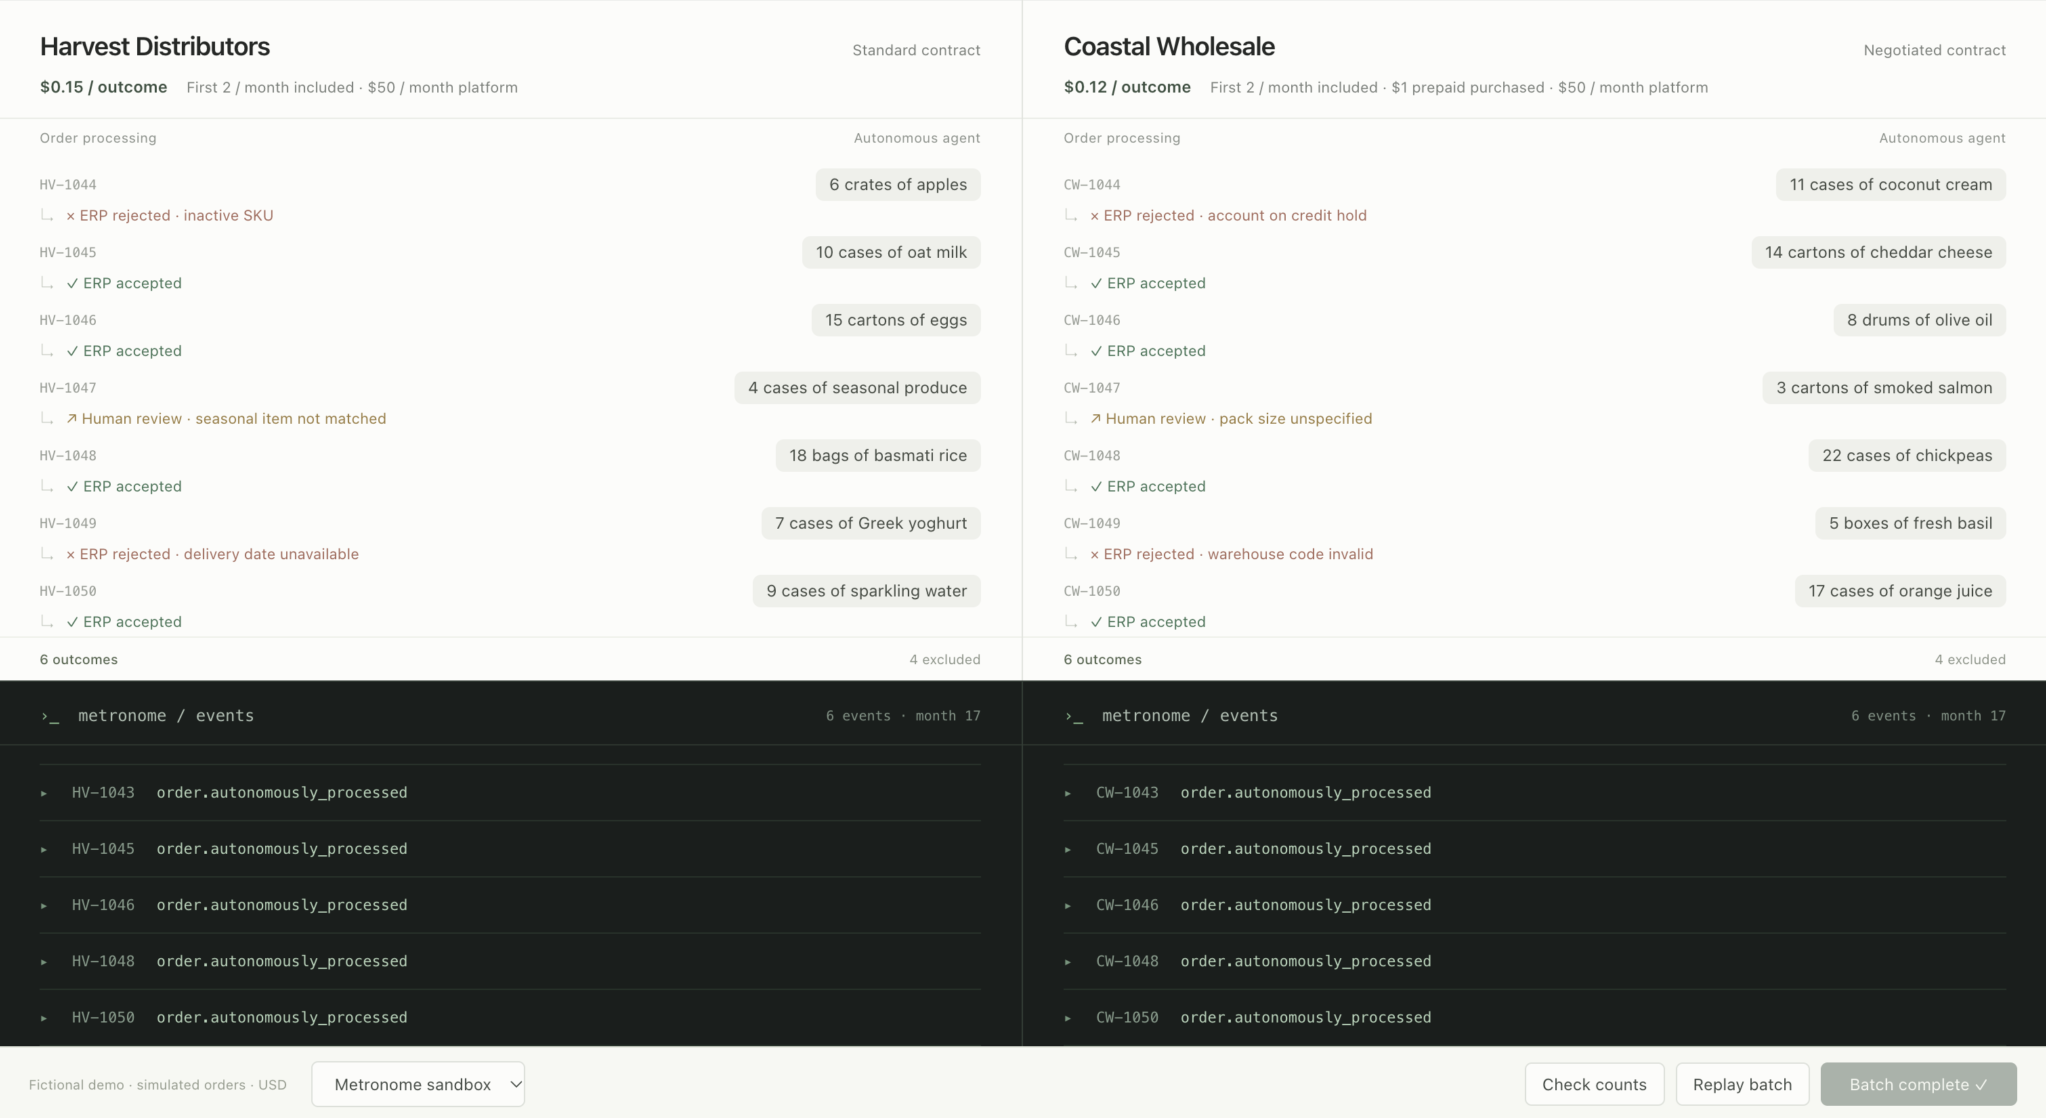
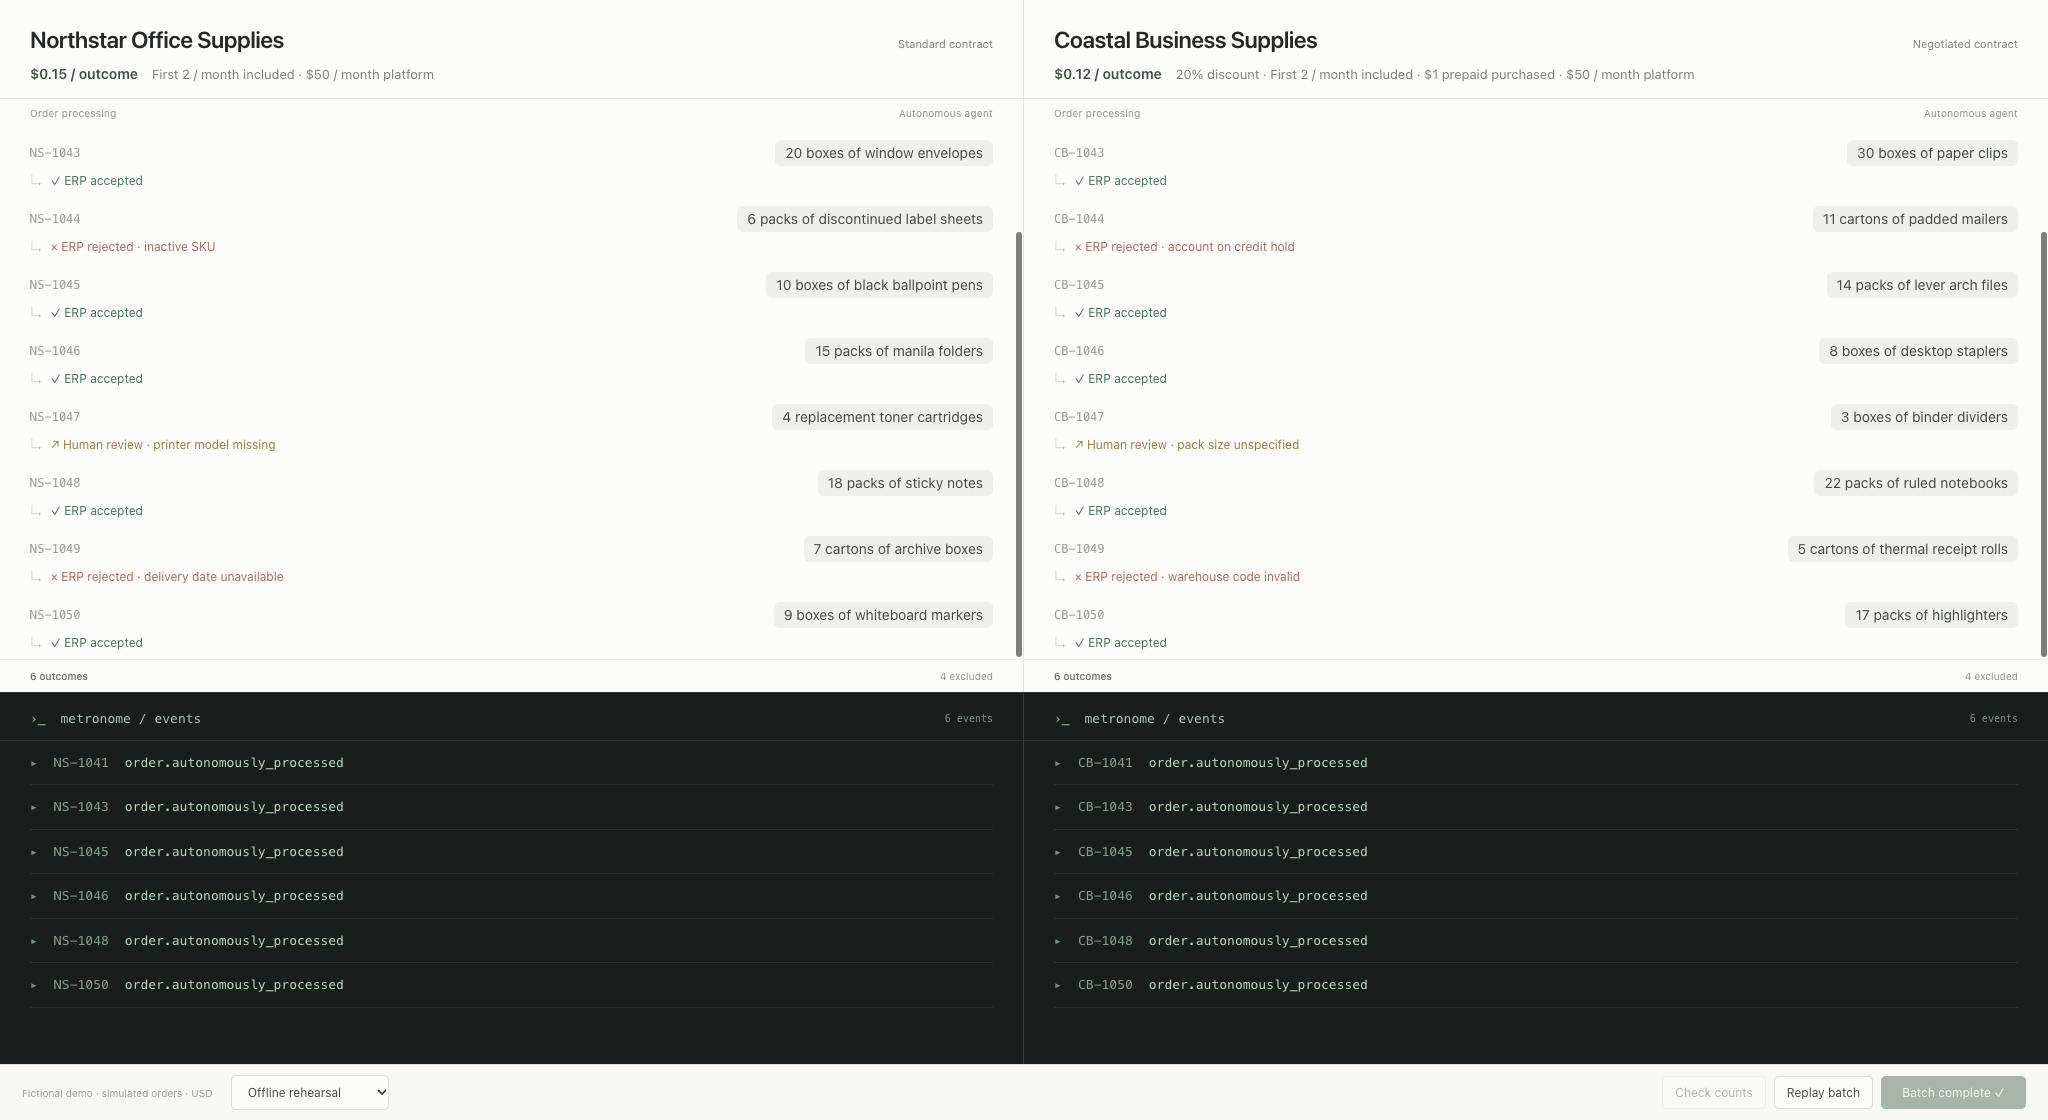
Reframe demo as Dunder Mifflin office-supply order processing

diff --git a/public/index.html b/public/index.html
@@ -3,7 +3,7 @@
 <head>
   <meta charset="utf-8">
   <meta name="viewport" content="width=device-width, initial-scale=1">
-  <title>OrderAI · Orders to outcomes</title>
+  <title>Dunder Mifflin Order Desk · Orders to outcomes</title>
   <link rel="stylesheet" href="/style.css">
   <script src="/app.js" defer></script>
 </head>

diff --git a/README.md b/README.md
@@ -1,8 +1,8 @@
-# OrderAI: the same outcomes, different bills
+# Dunder Mifflin Order Desk: the same outcomes, different bills
 
 Outcome-based billing charges for an agreed result, such as a successfully processed order, rather than each attempt or API call. For AI services that complete work autonomously, this connects the bill to work the customer actually receives. It depends on a clear, measurable definition of success.
 
-This demo uses **OrderAI**, a fictional AI order-processing platform, and two fictional customers: **Harvest Distributors** and **Coastal Wholesale**. Both receive the same number of successful outcomes, but their contracts produce different charges. It shows how outcome metering works alongside negotiated rates, included allowances and prepaid balances.
+In this fictional demo, **Dunder Mifflin Order Desk** sells an AI order-processing service to office-supply distributors: **Northstar Office Supplies** and **Coastal Business Supplies**. It interprets incoming orders, matches paper, toner and stationery to a catalogue, and submits them to the distributor’s ERP. Both receive the same number of successful outcomes, but their contracts produce different charges. It shows how outcome metering works alongside negotiated rates, included allowances and prepaid balances.
 
 ## Demo flow
 
@@ -21,12 +21,12 @@ The application defines success and sends qualifying events. Metronome counts an
 Open **https://app.metronome.com/** and walk through the prepared setup:
 
 1. **Billable metric:** COUNT of `order.autonomously_processed`.
-2. **Harvest → contract → rate card:** platform subscription, included allowance and outcome tiers.
+2. **Northstar → contract → rate card:** platform subscription, included allowance and outcome tiers.
 3. **Coastal → contract:** outcome pricing override, then the prepaid commitment.
 
 All demo prices are **USD**:
 
-| Term | Harvest | Coastal |
+| Term | Northstar | Coastal |
 | --- | --- | --- |
 | Monthly platform, in arrears | $50 | $50 |
 | Included outcomes per month | First 2 | First 2 |
@@ -36,6 +36,8 @@ All demo prices are **USD**:
 Show Coastal's **20% discount through 28 October 2027**, then the commitment's **eligible product, access dates and remaining balance**. Earlier tests may already have consumed the credit.
 
 The event doesn't contain a price. The customer's contract determines the charge.
+
+The Metronome screenshots show the original sandbox labels: **Coastal Wholesale** corresponds to **Coastal Business Supplies**, and **OrderAI Platform** corresponds to **Dunder Mifflin Order Desk**. They illustrate the same contract terms.
 
 ![Coastal's platform subscription and fully consumed $1 prepaid commitment in Metronome](docs/images/coastal-contract.png)
 
@@ -88,6 +90,8 @@ Open **http://localhost:3000**. It starts in Offline rehearsal. If that port is 
    cp config/customer-target.example.json .data/coastal-target.json
    ```
 
-   Fill each file's `customerId`, `contractId` and shared `metricId`. Expected customer names: **Harvest Distributors** and **Coastal Wholesale**.
+   Fill each file's `customerId`, `contractId` and shared `metricId`. Customer names: **Northstar Office Supplies** and **Coastal Business Supplies**. The existing sandbox names **Harvest Distributors** and **Coastal Wholesale** are also accepted; keep the mapping filenames above when renaming customers.
+
+   To align the dashboards with this story, rename the existing sandbox customers (Harvest → Northstar Office Supplies; Coastal → Coastal Business Supplies) and the platform product (OrderAI Platform → Dunder Mifflin Order Desk). Keep the same customer, contract and metric IDs.
 
 4. Restart `npm start`. Select **Metronome sandbox** and use **Check counts** before running.
